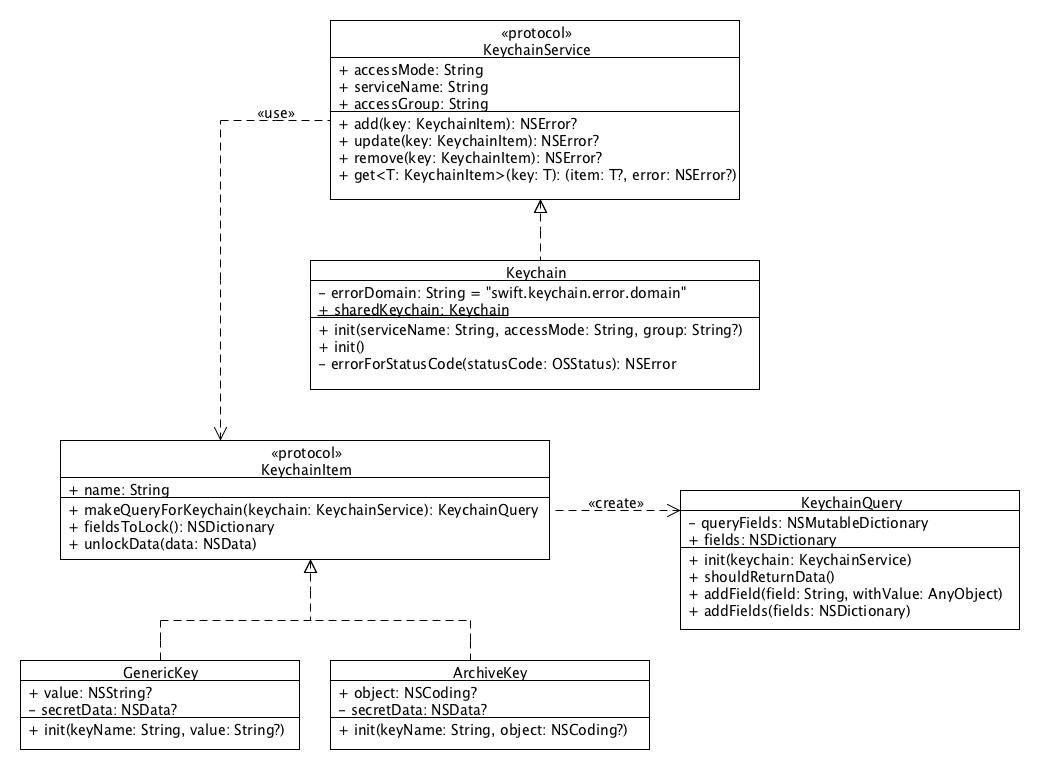
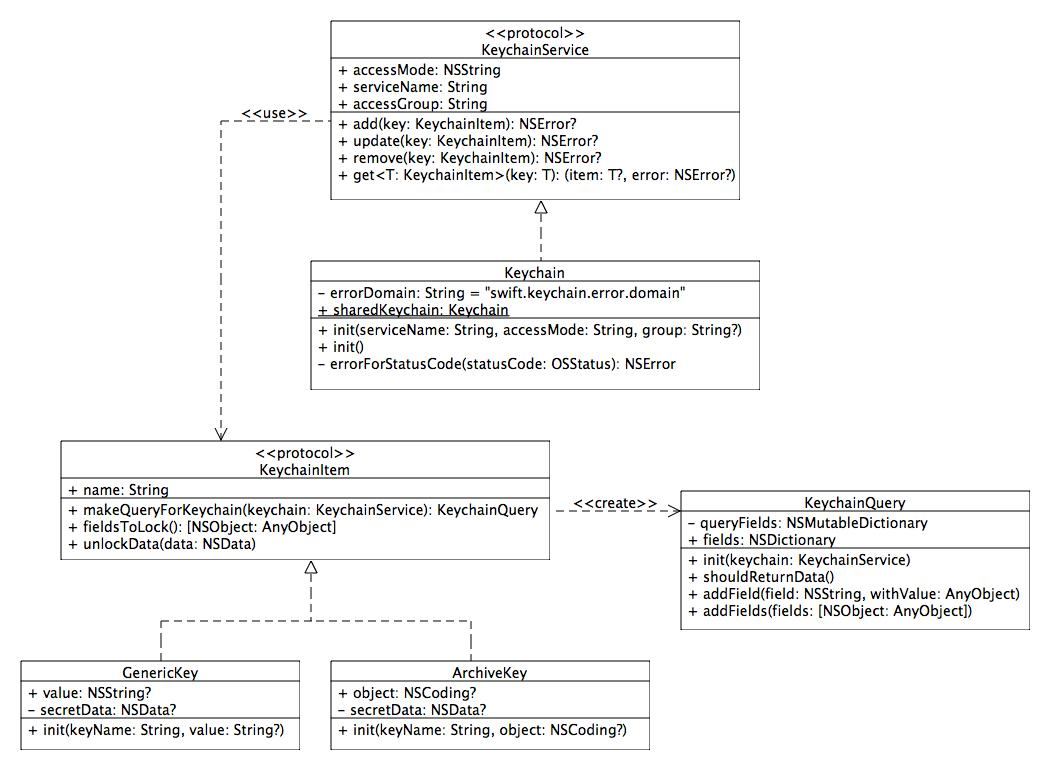
Added support for Swift 1.2

diff --git a/SwiftKeychainTests/KeychainQueryTests.swift b/SwiftKeychainTests/KeychainQueryTests.swift
@@ -13,7 +13,7 @@ class KeychainQueryTests: XCTestCase {
     
     class KeychainStub: KeychainService {
         
-        let accessMode: String = "mode"
+        let accessMode: NSString = "mode"
         let serviceName = "fake.service"
         var accessGroup: String?
         
@@ -38,8 +38,8 @@ class KeychainQueryTests: XCTestCase {
         let query = KeychainQuery(keychain: fakeKeychain)
         let fields = query.fields
         
-        let accessMode = fields.objectForKey(kSecAttrAccessible) as String
-        let accessGroup = fields.objectForKey(kSecAttrAccessGroup) as String
+        let accessMode = fields.objectForKey(kSecAttrAccessible) as! NSString
+        let accessGroup = fields.objectForKey(kSecAttrAccessGroup) as! NSString
         
         XCTAssertEqual(accessMode, "mode", "Accessible attribute mismatch")
         XCTAssertEqual(accessGroup, group, "Access group attribute mismatch")
@@ -52,7 +52,7 @@ class KeychainQueryTests: XCTestCase {
         
         let fields = query.fields
         
-        let returnDataField = fields.objectForKey(kSecReturnData) as Bool
+        let returnDataField = fields.objectForKey(kSecReturnData) as! Bool
         
         XCTAssertTrue(returnDataField, "We should be able to set the return data field to true")
     }

diff --git a/SwiftKeychain/Keychain/Keychain.swift b/SwiftKeychain/Keychain/Keychain.swift
@@ -10,7 +10,7 @@ import Foundation
 
 public class Keychain: KeychainService {
     
-    public let accessMode: String
+    public let accessMode: NSString
     public let serviceName: String
     public var accessGroup: String?
     private let errorDomain = "swift.keychain.error.domain"
@@ -29,7 +29,7 @@ public class Keychain: KeychainService {
     // MARK: - Initializers
     ///////////////////////////////////////////////////////
     
-    public init(serviceName name: String, accessMode: String = kSecAttrAccessibleWhenUnlocked, group: String? = nil) {
+    public init(serviceName name: String, accessMode: NSString = kSecAttrAccessibleWhenUnlocked, group: String? = nil) {
         
         self.accessMode = accessMode
         serviceName = name

diff --git a/SwiftKeychain/Keychain/GenericKey.swift b/SwiftKeychain/Keychain/GenericKey.swift
@@ -21,7 +21,7 @@ public class GenericKey: BaseKey {
     // MARK: - Initializers
     ///////////////////////////////////////////////////////
     
-    public init(keyName: String, value: String? = nil) {
+    public init(keyName: String, value: NSString? = nil) {
         
         self.value = value
         super.init(name: keyName)
@@ -42,9 +42,9 @@ public class GenericKey: BaseKey {
         return query
     }
     
-    public override func fieldsToLock() -> NSDictionary {
+    public override func fieldsToLock() -> [NSObject: AnyObject] {
         
-        var fields = NSMutableDictionary()
+        var fields = [NSObject: AnyObject]()
         
         if let data = secretData {
             

diff --git a/SwiftKeychain/Keychain/KeychainItem.swift b/SwiftKeychain/Keychain/KeychainItem.swift
@@ -25,7 +25,7 @@ public protocol KeychainItem {
         
         :returns: dictionary
     */
-    func fieldsToLock() -> NSDictionary
+    func fieldsToLock() -> [NSObject: AnyObject]
     
     /**
         Decodes the obtained from the Keychain data
@@ -60,11 +60,11 @@ public class BaseKey: KeychainItem {
         return KeychainQuery(keychain: keychain)
     }
     
-    public func fieldsToLock() -> NSDictionary {
+    public func fieldsToLock() -> [NSObject: AnyObject] {
         
         assertionFailure("should be overridden in subclass")
         
-        return NSDictionary()
+        return [NSObject: AnyObject]()
     }
     
     public func unlockData(data: NSData) {

diff --git a/SwiftKeychain/Keychain/KeychainQuery.swift b/SwiftKeychain/Keychain/KeychainQuery.swift
@@ -40,12 +40,12 @@ public class KeychainQuery {
         addField(kSecReturnData, withValue: true)
     }
     
-    public func addField(field: String, withValue value: AnyObject) {
+    public func addField(field: NSString, withValue value: AnyObject) {
         
         queryFields.setObject(value, forKey: field)
     }
     
-    public func addFields(fields: NSDictionary) {
+    public func addFields(fields: [NSObject: AnyObject]) {
         
         queryFields.addEntriesFromDictionary(fields)
     }

diff --git a/SwiftKeychain/Keychain/ArchiveKey.swift b/SwiftKeychain/Keychain/ArchiveKey.swift
@@ -47,9 +47,9 @@ public class ArchiveKey: BaseKey {
         return query
     }
     
-    public override func fieldsToLock() -> NSDictionary {
+    public override func fieldsToLock() -> [NSObject: AnyObject] {
         
-        var fields = NSMutableDictionary()
+        var fields = [NSObject: AnyObject]()
         
         if let data = secretData {
             

diff --git a/SwiftKeychainTests/ArchiveKeyTests.swift b/SwiftKeychainTests/ArchiveKeyTests.swift
@@ -50,7 +50,7 @@ class ArchiveKeyTests: XCTestCase {
         
         key.unlockData(data)
         
-        let decodedUser = key.object! as NSDictionary
+        let decodedUser = key.object! as! [NSObject: AnyObject]
         
         XCTAssertEqual(user, decodedUser, "Should decode the object data stored in the keychain")
     }

diff --git a/SwiftKeychain/Keychain/KeychainService.swift b/SwiftKeychain/Keychain/KeychainService.swift
@@ -10,7 +10,7 @@ import Foundation
 
 public protocol KeychainService {
     
-    var accessMode: String {get}
+    var accessMode: NSString {get}
     var serviceName: String {get}
     var accessGroup: String? {get set}
     
